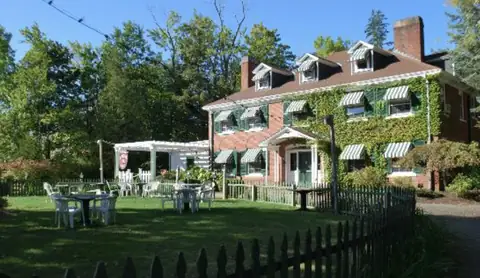
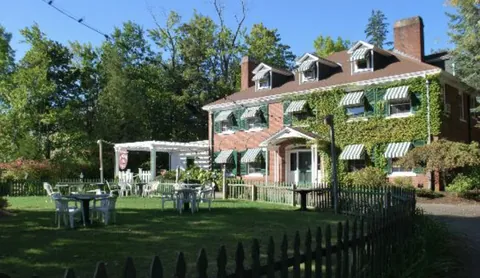
Fix pixelated hero: Retina srcset variants and higher encode quality
The hero master is 1014px against a 1032px CSS slot, so 2x screens were
browser-upscaling a q68 WebP. Added Lanczos-upscaled, unsharp-masked
1520w and 2028w variants, re-encoded the native sizes at q80-85, and
rebuilt share.jpg from the sharpened base. Lighthouse unchanged: mobile
97/100/100/100, desktop 100/100/100/100.

Changed region(s): [[0.2812, 0.1727, 0.3125, 0.2014]]

diff --git a/index.html b/index.html
@@ -60,7 +60,7 @@
 <figure class="hero-photo">
 <div class="win">
 <div class="valance" aria-hidden="true"></div>
-<img src="photos/estate-summer.webp" srcset="photos/estate-summer-480.webp 480w, photos/estate-summer-640.webp 640w, photos/estate-summer-760.webp 760w, photos/estate-summer.webp 1014w" sizes="(max-width:1128px) calc(100vw - 3rem), 1032px" width="1014" height="588" fetchpriority="high" alt="The Governor's Inn in high summer, the ivy-covered brick estate with green striped awnings above the lawn, pergola, and picket fence">
+<img src="photos/estate-summer.webp" srcset="photos/estate-summer-480.webp 480w, photos/estate-summer-640.webp 640w, photos/estate-summer-760.webp 760w, photos/estate-summer.webp 1014w, photos/estate-summer-1520.webp 1520w, photos/estate-summer-2028.webp 2028w" sizes="(max-width:1128px) calc(100vw - 3rem), 1032px" width="1014" height="588" fetchpriority="high" alt="The Governor's Inn in high summer, the ivy-covered brick estate with green striped awnings above the lawn, pergola, and picket fence">
 </div>
 <figcaption>The estate on Wakefield Street, high summer</figcaption>
 </figure>
